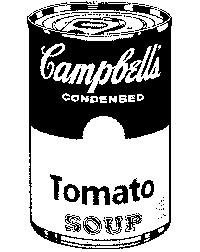
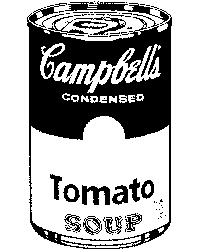
didn't fix anything

diff --git a/src/Image.java b/src/Image.java
@@ -42,13 +42,16 @@ public class Image {
 
 	                int color = img.getRGB(i, j);
 
+	                
 	                int red = (color >>> 16) & 0xFF;
 	                int green = (color >>> 8) & 0xFF;
 	                int blue = (color >>> 0) & 0xFF;
 
+	               //calculate luminance in range 0.0 to 1.0; using SRGB luminance constants
 	                double lum = (red * 0.21f + green * 0.71f + blue * 0.07f) / 255;
 
 	                if (lum <= threshold[rn.nextInt(threshold.length)]) {
+	               // if (lum < 0.5f) {
 	                    imRes.setRGB(i, j, 0x000000);
 	                } else {
 	                    imRes.setRGB(i, j, 0xFFFFFF);
@@ -141,17 +144,14 @@ public class Image {
 	}
 
 	public int getHeight() {
-		// TODO Auto-generated method stub
 		return img.getHeight();
 	}
 
 	public int getWidth() {
-		// TODO Auto-generated method stub
 		return img.getWidth();
 	}
 
 	public int getRGB(int j, int i) {
-		// TODO Auto-generated method stub
 		return img.getRGB(j, i);
 	}
 	
